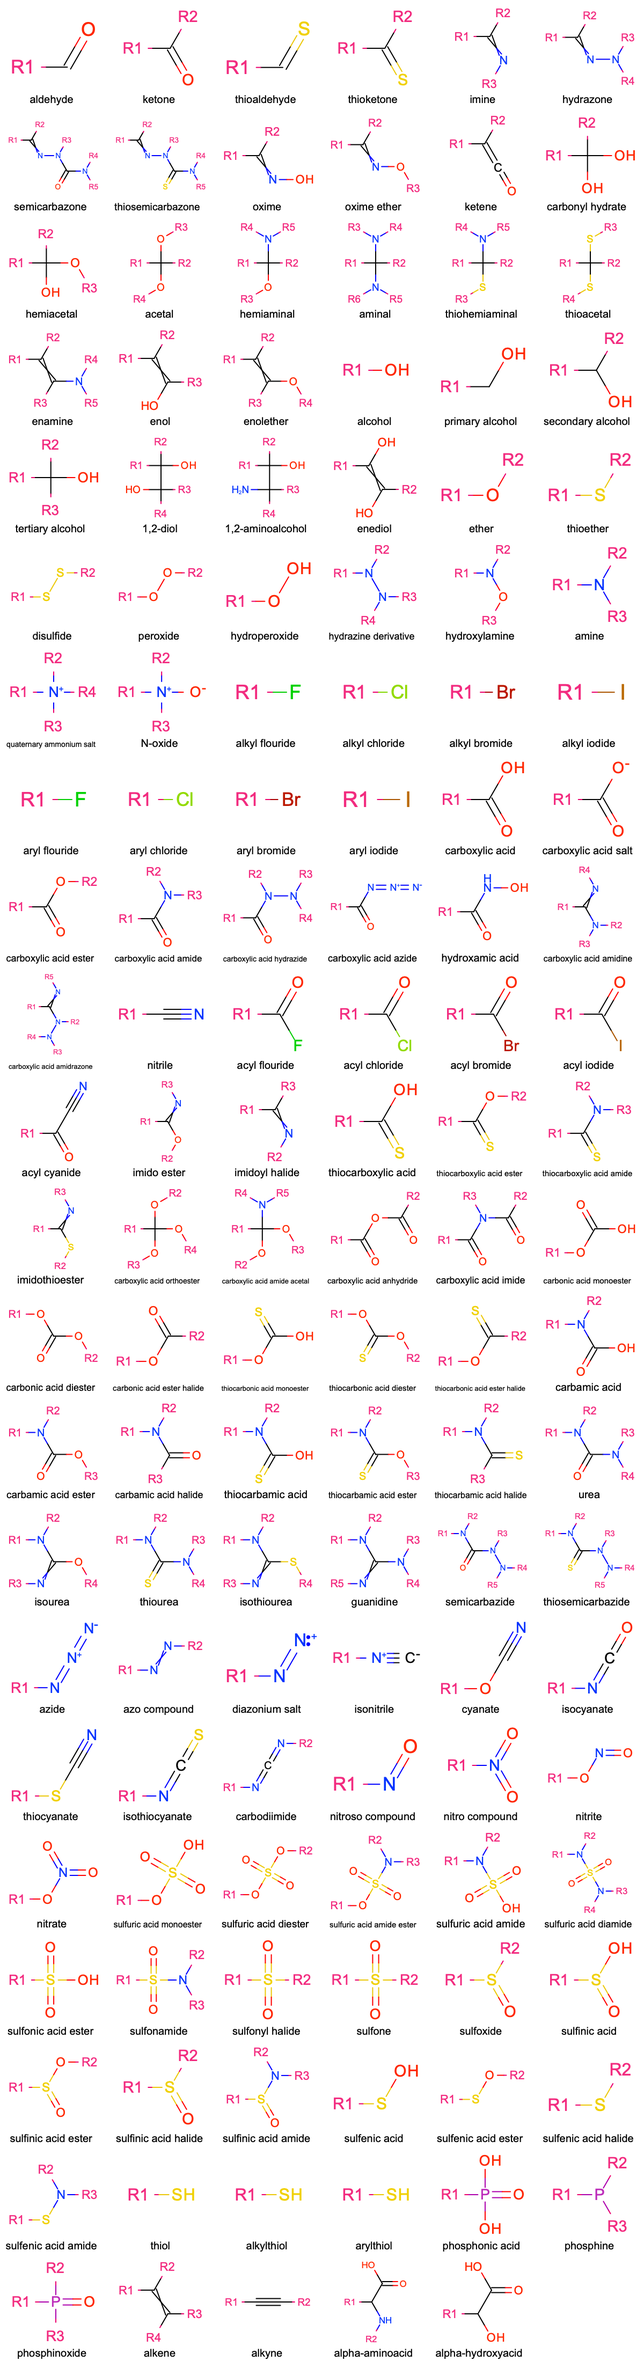
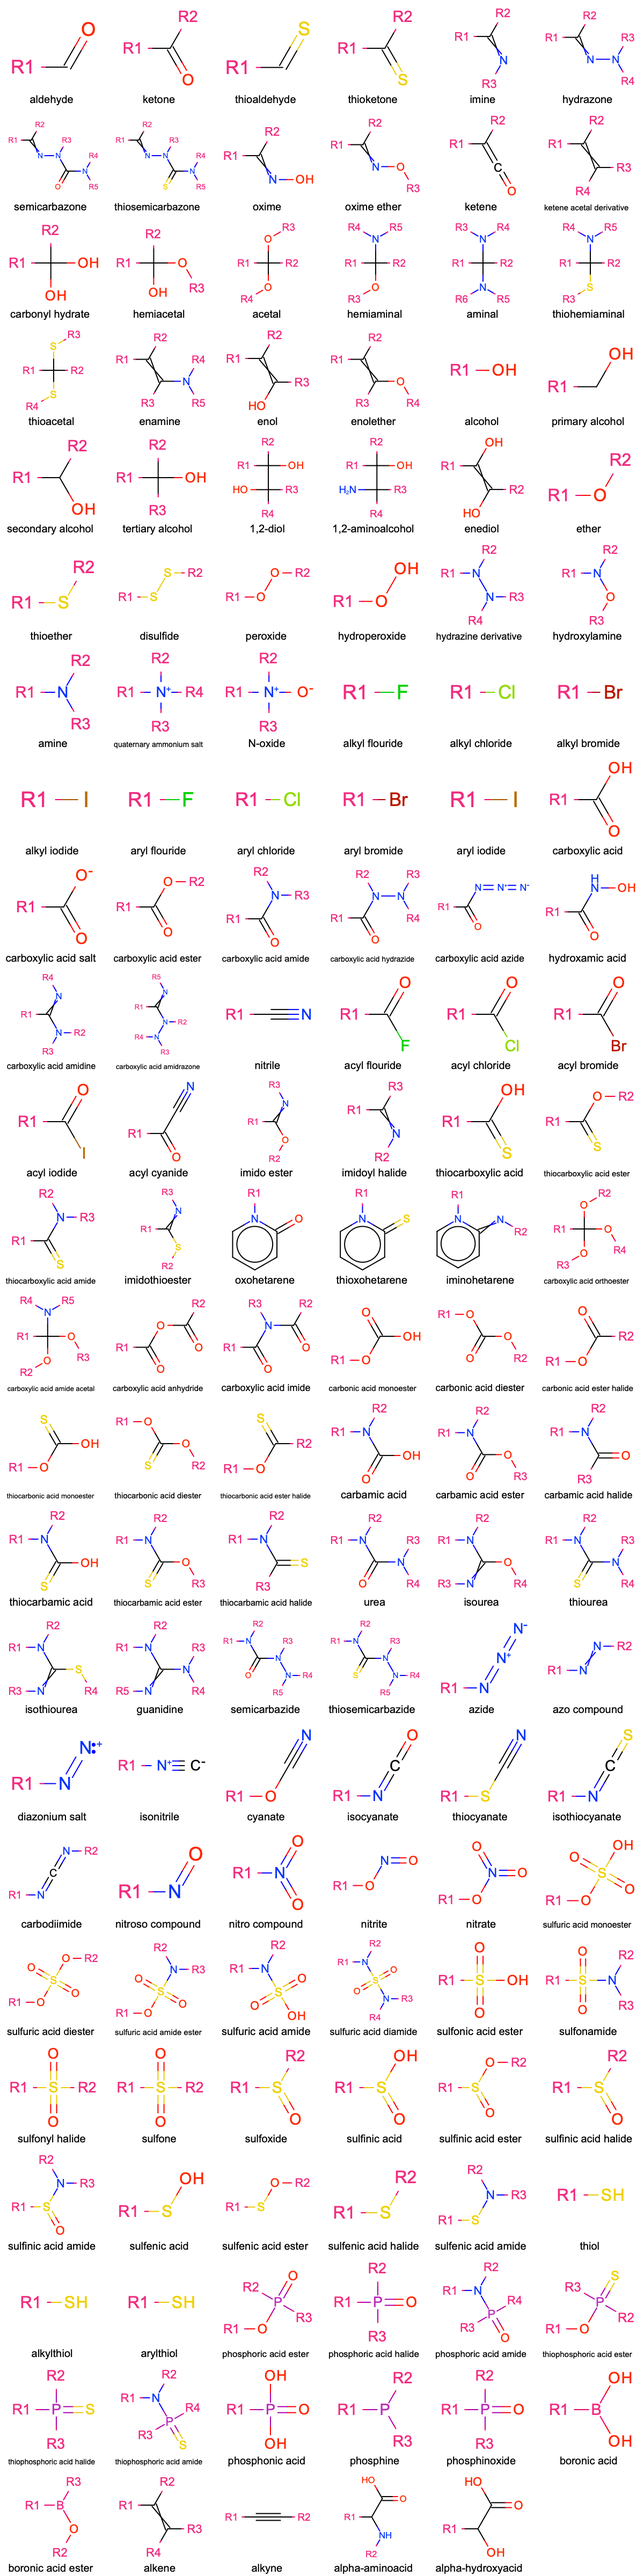
Add extra ring, P, S and B containing scaffolds (#1).

diff --git a/constructure/scaffolds.py b/constructure/scaffolds.py
@@ -2,7 +2,7 @@ from typing import TYPE_CHECKING, Dict, List, Literal
 
 from pydantic import BaseModel
 
-RGroup = Literal["hydrogen", "acyl", "alkyl", "aryl", "halogen"]
+RGroup = Literal["hydrogen", "acyl", "alkyl", "aryl", "halogen", "hetero"]
 
 if TYPE_CHECKING:
     RGroup = str
@@ -106,7 +106,15 @@ SCAFFOLDS = {
             2: ["hydrogen", "alkyl", "aryl"],
         },
     ),
-    # ketene acetal derivative
+    "ketene acetal derivative": Scaffold(
+        smiles="C([R1])([R2])=C([R3])([R4])",
+        r_groups={
+            1: ["hydrogen", "alkyl", "aryl"],
+            2: ["hydrogen", "alkyl", "aryl"],
+            3: ["hetero"],
+            4: ["hetero"],
+        },
+    ),
     "carbonyl hydrate": Scaffold(
         smiles="C([R1])(O)(O)([R2])",
         r_groups={
@@ -547,9 +555,25 @@ SCAFFOLDS = {
             3: ["hydrogen", "alkyl", "aryl"],
         },
     ),
-    # oxohetarene
-    # thioxohetarene
-    # iminohetarene
+    "oxohetarene": Scaffold(
+        smiles="n1([R1])ccccc1=O",
+        r_groups={
+            1: ["hydrogen", "alkyl", "aryl"],
+        },
+    ),
+    "thioxohetarene": Scaffold(
+        smiles="n1([R1])ccccc1=S",
+        r_groups={
+            1: ["hydrogen", "alkyl", "aryl"],
+        },
+    ),
+    "iminohetarene": Scaffold(
+        smiles="N([R2])=C1C=CC=CN1([R1])",
+        r_groups={
+            1: ["hydrogen", "alkyl", "aryl"],
+            2: ["hydrogen", "alkyl", "aryl"],
+        },
+    ),
     # orthocarboxylic acid deriv.
     "carboxylic acid orthoester": Scaffold(
         smiles="C([R1])(O([R2]))(O([R3]))(O([R4]))",
@@ -979,14 +1003,58 @@ SCAFFOLDS = {
     ),
     # phosphoric acid deriv.
     # phosphoric acid.
-    # phosphoric acid ester
-    # phosphoric acid halide
-    # phosphoric acid amide
+    "phosphoric acid ester": Scaffold(
+        smiles="P([R2])([R3])(=O)O([R1])",
+        r_groups={
+            1: ["alkyl", "aryl"],
+            2: ["hetero", "halogen"],
+            3: ["hetero", "halogen"],
+        },
+    ),
+    "phosphoric acid halide": Scaffold(
+        smiles="P([R1])([R2])([R3])(=O)",
+        r_groups={
+            1: ["halogen"],
+            2: ["hetero", "halogen"],
+            3: ["hetero", "halogen"],
+        },
+    ),
+    "phosphoric acid amide": Scaffold(
+        smiles="P([R3])([R4])(=O)N([R1])([R2])",
+        r_groups={
+            1: ["hydrogen", "alkyl", "aryl"],
+            2: ["hydrogen", "alkyl", "aryl"],
+            3: ["hetero", "halogen"],
+            4: ["hetero", "halogen"],
+        },
+    ),
     # thiophosphoric acid deriv.
     # thiophosphoric acid
-    # thiophosphoric acid ester
-    # thiophosphoric acid halide
-    # thiophosphoric acid amide
+    "thiophosphoric acid ester": Scaffold(
+        smiles="P([R2])([R3])(=S)O([R1])",
+        r_groups={
+            1: ["alkyl", "aryl"],
+            2: ["hetero", "halogen"],
+            3: ["hetero", "halogen"],
+        },
+    ),
+    "thiophosphoric acid halide": Scaffold(
+        smiles="P([R1])([R2])([R3])(=S)",
+        r_groups={
+            1: ["halogen"],
+            2: ["hetero", "halogen"],
+            3: ["hetero", "halogen"],
+        },
+    ),
+    "thiophosphoric acid amide": Scaffold(
+        smiles="P([R3])([R4])(=S)N([R1])([R2])",
+        r_groups={
+            1: ["hydrogen", "alkyl", "aryl"],
+            2: ["hydrogen", "alkyl", "aryl"],
+            3: ["hetero", "halogen"],
+            4: ["hetero", "halogen"],
+        },
+    ),
     # phosphonic acid deriv.
     "phosphonic acid": Scaffold(
         smiles="P([R1])(=O)(O)(O)",
@@ -1013,7 +1081,20 @@ SCAFFOLDS = {
     ),
     # boronic acid deriv.
     # boronic acid
-    # boronic acid ester
+    "boronic acid": Scaffold(
+        smiles="B([R1])(O)(O)",
+        r_groups={
+            1: ["alkyl", "aryl"],
+        },
+    ),
+    "boronic acid ester": Scaffold(
+        smiles="B([R1])([R3])O([R2])",
+        r_groups={
+            1: ["alkyl", "aryl"],
+            2: ["alkyl", "aryl"],
+            3: ["halogen", "hetero"],
+        },
+    ),
     "alkene": Scaffold(
         smiles="C([R1])([R2])=C([R3])([R4])",
         r_groups={

diff --git a/constructure/constructors.py b/constructure/constructors.py
@@ -48,7 +48,7 @@ class Constructor(abc.ABC):
     @abc.abstractmethod
     def classify_substituent(
         cls, substituent: str
-    ) -> Optional[Literal["hydrogen", "aryl", "alkyl", "acyl", "halogen"]]:
+    ) -> Optional[Literal["hydrogen", "aryl", "alkyl", "acyl", "halogen", "hetero"]]:
         """A function which will attempt to classify a substituent as being either
         a hydrogen, aryl, alkyl, acyl or a halogen.
 
@@ -235,7 +235,7 @@ class RDKitConstructor(Constructor):
     @requires_package("rdkit")
     def classify_substituent(
         cls, substituent: str
-    ) -> Optional[Literal["hydrogen", "aryl", "alkyl", "acyl", "halogen"]]:
+    ) -> Optional[Literal["hydrogen", "aryl", "alkyl", "acyl", "halogen", "hetero"]]:
 
         from rdkit import Chem
 
@@ -266,6 +266,10 @@ class RDKitConstructor(Constructor):
         # Check for halogen
         if attachment_atom.GetAtomicNum() in [9, 17, 35, 53]:
             return "halogen"
+
+        # Check for hetero
+        if attachment_atom.GetAtomicNum() in [7, 8]:
+            return "hetero"
 
         # Check for alkyl
         if (
@@ -338,7 +342,7 @@ class OpenEyeConstructor(Constructor):
     @requires_oe_package("oechem")
     def classify_substituent(
         cls, substituent: str
-    ) -> Optional[Literal["hydrogen", "aryl", "alkyl", "acyl", "halogen"]]:
+    ) -> Optional[Literal["hydrogen", "aryl", "alkyl", "acyl", "halogen", "hetero"]]:
 
         from openeye import oechem
 
@@ -370,6 +374,10 @@ class OpenEyeConstructor(Constructor):
         # Check for halogen
         if attachment_atom.GetAtomicNum() in [9, 17, 35, 53]:
             return "halogen"
+
+        # Check for hetero
+        if attachment_atom.GetAtomicNum() in [7, 8]:
+            return "hetero"
 
         # Check for alkyl
         if (

diff --git a/constructure/tests/test_constructor.py b/constructure/tests/test_constructor.py
@@ -69,7 +69,9 @@ def test_attach_substituents(constructor):
         ("[R][C+](=O)", "acyl"),
         ("[R]Cl", "halogen"),
         ("Cl[R]", "halogen"),
-        ("[R]O", None),
+        ("[R]O", "hetero"),
+        ("[R]N", "hetero"),
+        ("[R][Li]", None),
     ],
 )
 def test_classify_substituent(constructor, substituent, expected):

diff --git a/README.md b/README.md
@@ -8,7 +8,7 @@
 The ``constructure`` framework aims to provide utilities for generating a diverse set of molecules from a set of common 
 organic scaffolds.
 
-There are currently 131 scaffolds included by default in the framework which can be [viewed here](https://github.com/SimonBoothroyd/constructure/blob/main/docs/scaffolds.png). 
+There are currently 143 scaffolds included by default in the framework which can be [viewed here](https://github.com/SimonBoothroyd/constructure/blob/main/docs/scaffolds.png). 
 This set were generated based on those functionalities support by [``checkmol``.](https://homepage.univie.ac.at/norbert.haider/cheminf/fgtable.pdf) 
 
 ### Installation
